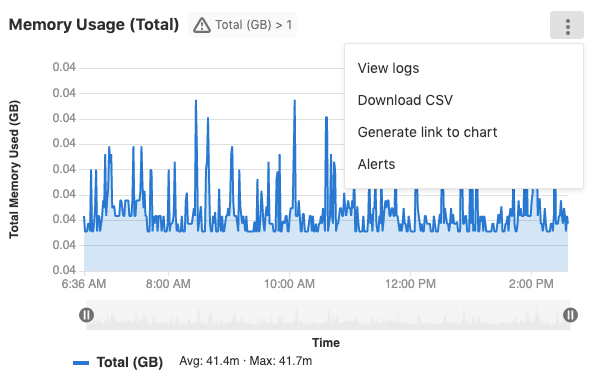
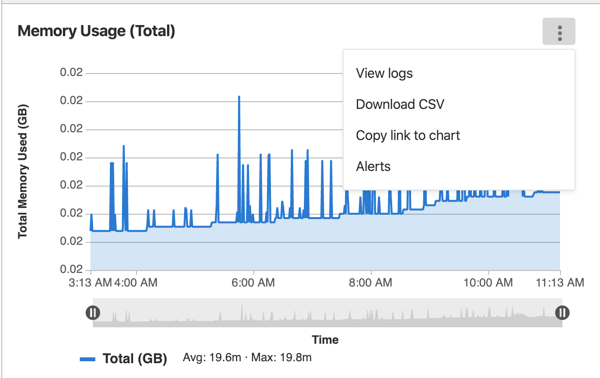
Change generate link to chart naming in docs

diff --git a/doc/user/project/integrations/prometheus.md b/doc/user/project/integrations/prometheus.md
@@ -624,7 +624,7 @@ The options are:
 
 - [View logs](#view-logs-ultimate)
 - [Download CSV](#downloading-data-as-csv)
-- [Generate link to chart](#embedding-gitlab-managed-kubernetes-metrics)
+- [Copy link to chart](#embedding-gitlab-managed-kubernetes-metrics)
 - [Alerts](#setting-up-alerts-for-prometheus-metrics-ultimate)
 
 ### View Logs **(ULTIMATE)**
@@ -763,9 +763,11 @@ GitLab unfurls the link as an embedded metrics panel:
 
 ![Embedded Metrics Rendered](img/embedded_metrics_rendered_v12_8.png)
 
-A single chart may also be embedded. You can generate a link to the chart via the dropdown located on the right side of the chart:
+You can also embed a single chart. To get a link to a chart, click the
+**{ellipsis_v}** **More info** menu in the upper right corner of the chart,
+and select **Copy link to chart**, as shown in this example:
 
-![Generate Link To Chart](img/generate_link_to_chart.png)
+![Copy Link To Chart](img/copy_link_to_chart_v12_10.png)
 
 The following requirements must be met for the metric to unfurl:
 
